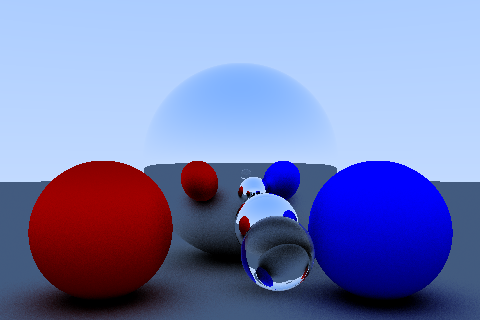
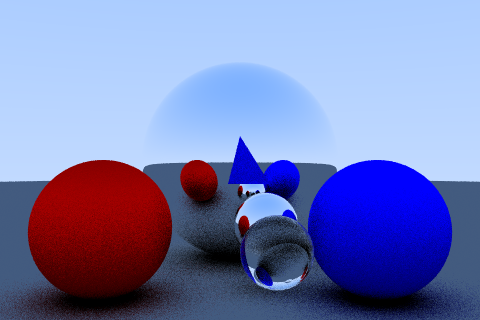
trinagle

diff --git a/src/world.rs b/src/world.rs
@@ -47,8 +47,8 @@ impl Camera {
     }
 
     pub fn get_ray_direction(&self, x: usize, y: usize) -> Ray {
-        let x_cmp = (x as f64 / self.width_px as f64 - 0.5) * self.half_tan_fov_x;
-        let y_cmp = (0.5 - y as f64 / self.height_px as f64) * self.half_tan_fov_y;
+        let x_cmp = ((x as f64 + fastrand::f64()) / self.width_px as f64 - 0.5) * self.half_tan_fov_x ;
+        let y_cmp = (0.5 - (y as f64  + fastrand::f64())/ self.height_px as f64) * self.half_tan_fov_y;
         Ray::new(self.position, Vec3::new(x_cmp, y_cmp, -1.0).normalize().rotate(&self.euler_angles))
     }
 
@@ -192,6 +192,54 @@ impl Hittable for Sphere {
 
 }
 
+pub struct Triangle {
+    pub(crate) v0: Vec3,
+    pub(crate) v1: Vec3,
+    pub(crate) v2: Vec3,
+    pub(crate) material: Box<dyn Material>,
+}
+impl Hittable for Triangle {
+    fn hit(&self, ray: &Ray) -> Option<HitRecord> {
+        // https://www.scratchapixel.com/lessons/3d-basic-rendering/ray-tracing-rendering-a-triangle/ray-triangle-intersection-geometric-solution.html
+        let v0v1 = self.v1.sub(&self.v0);
+        let v0v2 = self.v2.sub(&self.v0);
+        let N = v0v1.cross(&v0v2);
+        let NdotRayDirection = N.dot(&ray.direction);
+        if NdotRayDirection.abs() < 1e-6 {
+            return None;
+        }
+        let d = N.dot(&self.v0);
+        let t = (N.dot(&ray.origin) + d) / NdotRayDirection;
+        if t < 0.001 {
+            return None;
+        }
+        let P = ray.origin.add(&ray.direction.scalar_mul(t));
+        let mut Ne: Vec3;
+        let v0p = P.sub(&self.v0);
+        Ne = v0v1.cross(&v0p);
+        if N.dot(&Ne) < 0.0 {
+            return None;
+        }
+
+        let v2v1 = self.v2.sub(&self.v1);
+        let v1p = P.sub(&self.v1);
+        Ne = v2v1.cross(&v1p);
+        if N.dot(&Ne) < 0.0 {
+            return None;
+        }
+
+        let v2v0 = self.v0.sub(&self.v2);
+        let v2p = P.sub(&self.v2);
+        Ne = v2v0.cross(&v2p);
+        if N.dot(&Ne) < 0.0 {
+            return None;
+        }
+        
+        Some(HitRecord { point: P, normal: N.normalize(), material: self.material.as_ref(), t })
+    }
+}
+
+
 pub struct Plane {
     pub(crate) point: Vec3,
     pub(crate) normal: Vec3,
@@ -245,22 +293,17 @@ pub struct World {
     objects: HittableList,
     depth: usize,
     samples: usize,
-    raysbuf: Vec<Ray>,
+
 }
 
 impl World {
     pub fn new(camera: Camera, objects: HittableList) -> Self {
         let img_buffer = vec![0; camera.width_px * camera.height_px * 3];
-        World { camera, img_buffer, objects, depth: 5, samples: 100, raysbuf: Vec::new() }
+        World { camera, img_buffer, objects, depth: 5, samples: 20 }
     }
 
     pub fn render(&mut self) {
-        self.raysbuf = Vec::with_capacity(self.camera.width_px * self.camera.height_px);
-        for y in 0..self.camera.height_px {
-            for x in 0..self.camera.width_px {
-                self.raysbuf.push(self.camera.get_ray_direction(x, y));
-            }
-        }
+
         for y in 0..self.camera.height_px {
             for x in 0..self.camera.width_px {
                 let pixel = self.cast_rays_and_average(x, y, self.samples);
@@ -282,13 +325,16 @@ impl World {
     }
 
     pub fn cast_ray(&self, x: usize, y: usize) -> Vec3 {
-        let mut current_ray = self.raysbuf[y * self.camera.width_px + x].clone();
+        let mut current_ray = self.camera.get_ray_direction(x, y);
         let mut current_color = Vec3::new(1.0, 1.0, 1.0);
         for _ in 0..self.depth {
             if let Some(hit) = self.objects.hit(&current_ray) {
                 if let Some((scattered, attenuation)) = hit.material.scatter(&current_ray, &hit) {
                     current_ray = scattered;
                     current_color = current_color.mul(&attenuation);
+                    if current_color.max_component() < 0.01 {
+                        return Vec3::ZERO;
+                    }
                 } else {
                     return Vec3::ZERO;
                 }

diff --git a/src/vec3.rs b/src/vec3.rs
@@ -13,15 +13,15 @@ impl Vec3 {
         Vec3 { x, y, z }
     }
 
-    #[inline(always)]
+    
     pub fn length(&self) -> f64 {
         (self.x * self.x + self.y * self.y + self.z * self.z).sqrt()
     }
-    #[inline(always)]
+    
     pub fn length_squared(&self) -> f64 {
         self.x * self.x + self.y * self.y + self.z * self.z
     }
-    #[inline(always)]
+    
     pub fn normalize(&self) -> Vec3 {
         let len = self.length();
         Vec3 {
@@ -30,11 +30,11 @@ impl Vec3 {
             z: self.z / len,
         }
     }
-    #[inline(always)]
+    
     pub fn dot(&self, other: &Vec3) -> f64 {
         self.x * other.x + self.y * other.y + self.z * other.z
     }
-    #[inline(always)]
+    
     pub fn cross(&self, other: &Vec3) -> Vec3 {
         Vec3 {
             x: self.y * other.z - self.z * other.y,
@@ -42,7 +42,7 @@ impl Vec3 {
             z: self.x * other.y - self.y * other.x,
         }
     }
-    #[inline(always)]
+    
     pub fn add(&self, other: &Vec3) -> Vec3 {
         Vec3 {
             x: self.x + other.x,
@@ -50,7 +50,7 @@ impl Vec3 {
             z: self.z + other.z,
         }
     }
-    #[inline(always)]
+    
     pub fn mul(&self, other: &Vec3) -> Vec3 {
         Vec3 {
             x: self.x * other.x,
@@ -58,7 +58,7 @@ impl Vec3 {
             z: self.z * other.z,
         }
     }
-    #[inline(always)]
+    
     pub fn scalar_mul(&self, scalar: f64) -> Vec3 {
         Vec3 {
             x: self.x * scalar,
@@ -66,7 +66,7 @@ impl Vec3 {
             z: self.z * scalar,
         }
     }
-    #[inline(always)]
+    
     pub fn sub(&self, other: &Vec3) -> Vec3 {
         Vec3 {
             x: self.x - other.x,
@@ -74,7 +74,7 @@ impl Vec3 {
             z: self.z - other.z,
         }
     }
-    #[inline(always)]
+    
     pub fn rotate(self, euler_angles: &Vec3) -> Vec3 {
         let (sx, cx) = euler_angles.x.sin_cos();
         let (sy, cy) = euler_angles.y.sin_cos();
@@ -97,6 +97,10 @@ impl Vec3 {
             v.x * sz + v.y * cz,
             v.z,
         )
+    }
+
+    pub fn max_component(&self) -> f64 {
+        self.x.max(self.y).max(self.z)
     }
 
     pub const ZERO: Vec3 = Vec3 { x: 0.0, y: 0.0, z: 0.0 };

diff --git a/src/main.rs b/src/main.rs
@@ -9,6 +9,7 @@ use crate::world::Metal;
 use crate::world::Sphere;
 use crate::world::Dielectric;
 use crate::world::HittableList;
+use crate::world::Triangle;
 
 fn main() {
     let red = Lambertian { albedo: Vec3::new(1.0, 0.0, 0.0) };
@@ -23,6 +24,12 @@ fn main() {
     let ball3 = Sphere{center: Vec3::new(-1.0, -0.5, -3.5), radius: 0.5, material: Box::new(red)};
     let ball4 = Sphere{center: Vec3::new(0.2, -0.5, -3.7), radius: 0.25, material: Box::new(shiny.clone())};
     let ball5 = Sphere{center: Vec3::new(0.2, -0.5, -2.6), radius: 0.2, material: Box::new(glass)};
+    let tri1 = Triangle {
+        v0: Vec3::new(-0.1, -0.2, -4.0),
+        v1: Vec3::new(0.25, -0.2, -4.0),
+        v2: Vec3::new(0.0, 0.2, -4.0),
+        material: Box::new(bluish),
+    };
     let floor = Sphere {
         center: Vec3::new(0.0, -1001.0, -5.0),
         radius: 1000.0,
@@ -32,7 +39,7 @@ fn main() {
 
     let mut world = World::new(
         Camera::new(480, 320, 90.0_f64.to_radians(), Vec3::new(0.0, 0.0, 0.0), Vec3::new(0.0, 0.0, 0.0)),
-        HittableList { objs: vec![Box::new(ball), Box::new(floor), Box::new(ball2), Box::new(ball3), Box::new(ball4), Box::new(ball5)] }
+        HittableList { objs: vec![Box::new(ball), Box::new(floor), Box::new(ball2), Box::new(ball3), Box::new(ball4), Box::new(ball5), Box::new(tri1)] }
     );
     let start = std::time::Instant::now();
     world.render();
